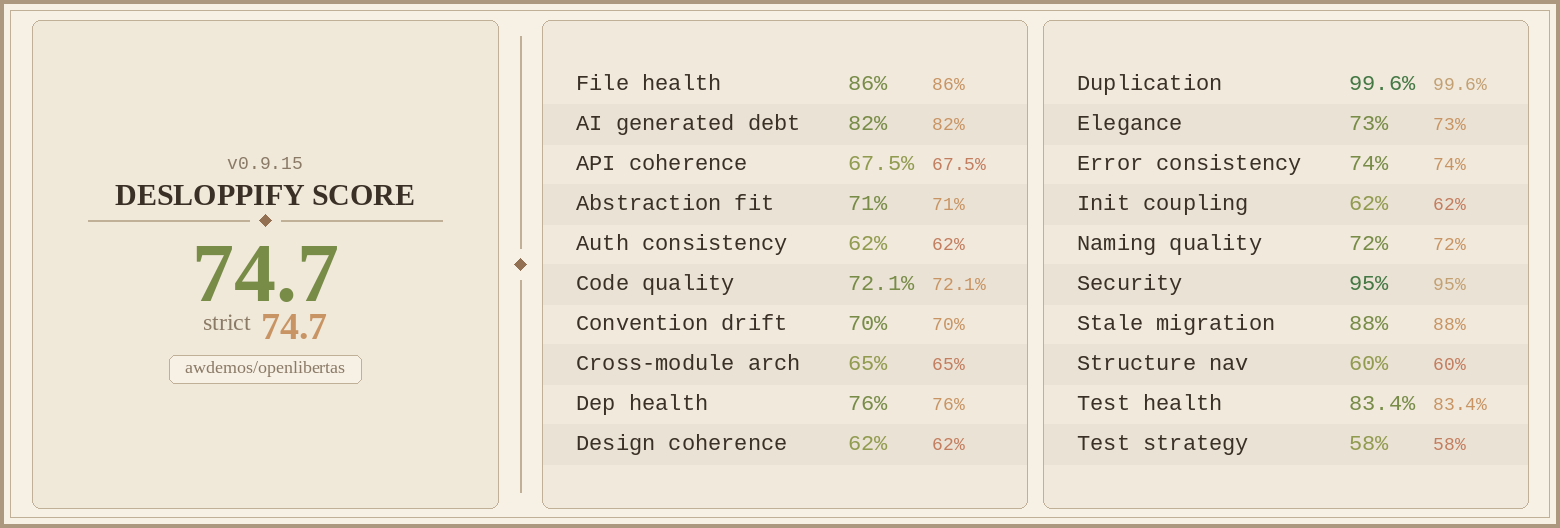
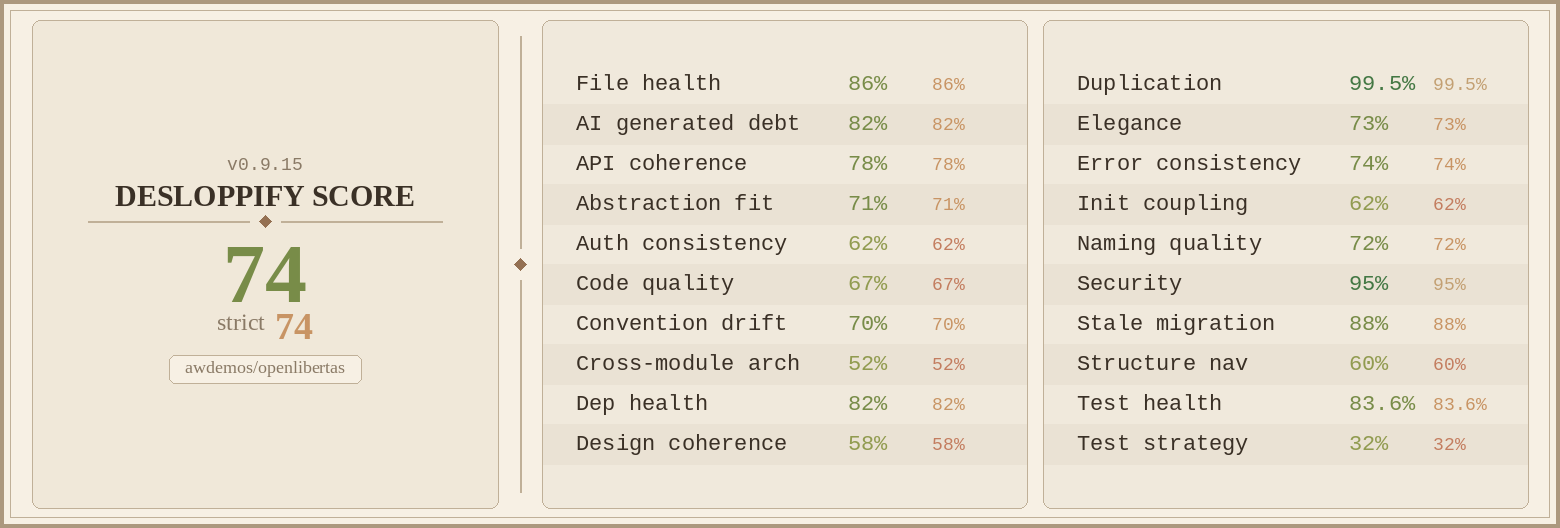
desloppify: break voice module import cycle by importing VoiceError directly from error module

diff --git a/crates/openlibertas-core/src/voice/client.rs b/crates/openlibertas-core/src/voice/client.rs
@@ -13,9 +13,9 @@ pub struct ElevenLabsClient {
 }
 
 impl ElevenLabsClient {
-    pub fn new(api_key: crate::config::SecretString, voice_id: String) -> Result<Self, crate::voice::VoiceError> {
+    pub fn new(api_key: crate::config::SecretString, voice_id: String) -> Result<Self, crate::voice::error::VoiceError> {
         if api_key.expose_secret().is_empty() {
-            return Err(crate::voice::VoiceError::MissingApiKey);
+            return Err(crate::voice::error::VoiceError::MissingApiKey);
         }
         Ok(Self {
             api_key,
@@ -26,13 +26,13 @@ impl ElevenLabsClient {
 
     /// Transcribe audio bytes to text using ElevenLabs STT.
     /// Audio should be in WAV, MP3, or other supported format.
-    pub async fn transcribe(&self, audio_bytes: Vec<u8>) -> Result<String, crate::voice::VoiceError> {
+    pub async fn transcribe(&self, audio_bytes: Vec<u8>) -> Result<String, crate::voice::error::VoiceError> {
         let url = format!("{}/speech-to-text", ELEVENLABS_API_BASE);
 
         let file_part = multipart::Part::bytes(audio_bytes)
             .file_name("audio.wav")
             .mime_str("audio/wav")
-            .map_err(|e| crate::voice::VoiceError::SerializationError(e.to_string()))?;
+            .map_err(|e| crate::voice::error::VoiceError::SerializationError(e.to_string()))?;
 
         let model_part = multipart::Part::text(DEFAULT_STT_MODEL.to_string());
 
@@ -47,7 +47,7 @@ impl ElevenLabsClient {
             .multipart(form)
             .send()
             .await
-            .map_err(|e| crate::voice::VoiceError::NetworkError(e.to_string()))?;
+            .map_err(|e| crate::voice::error::VoiceError::NetworkError(e.to_string()))?;
 
         if !response.status().is_success() {
             let status = response.status();
@@ -55,7 +55,7 @@ impl ElevenLabsClient {
                 .text()
                 .await
                 .unwrap_or_else(|_| "Unknown error".to_string());
-            return Err(crate::voice::VoiceError::SttError(format!(
+            return Err(crate::voice::error::VoiceError::SttError(format!(
                 "HTTP {}: {}",
                 status, body
             )));
@@ -64,16 +64,16 @@ impl ElevenLabsClient {
         let json: serde_json::Value = response
             .json()
             .await
-            .map_err(|e| crate::voice::VoiceError::SerializationError(e.to_string()))?;
+            .map_err(|e| crate::voice::error::VoiceError::SerializationError(e.to_string()))?;
 
         let text = json.get("text").and_then(|v| v.as_str()).ok_or_else(|| {
-            crate::voice::VoiceError::SttError("Missing 'text' in STT response".to_string())
+            crate::voice::error::VoiceError::SttError("Missing 'text' in STT response".to_string())
         })?;
 
         Ok(text.to_string())
     }
 
-    pub async fn text_to_speech(&self, text: &str) -> Result<Vec<u8>, crate::voice::VoiceError> {
+    pub async fn text_to_speech(&self, text: &str) -> Result<Vec<u8>, crate::voice::error::VoiceError> {
         let url = format!(
             "{}/text-to-speech/{}/stream?output_format=mp3_44100_128",
             ELEVENLABS_API_BASE, self.voice_id
@@ -92,7 +92,7 @@ impl ElevenLabsClient {
             .json(&body)
             .send()
             .await
-            .map_err(|e| crate::voice::VoiceError::NetworkError(e.to_string()))?;
+            .map_err(|e| crate::voice::error::VoiceError::NetworkError(e.to_string()))?;
 
         if !response.status().is_success() {
             let status = response.status();
@@ -100,7 +100,7 @@ impl ElevenLabsClient {
                 .text()
                 .await
                 .unwrap_or_else(|_| "Unknown error".to_string());
-            return Err(crate::voice::VoiceError::TtsError(format!(
+            return Err(crate::voice::error::VoiceError::TtsError(format!(
                 "HTTP {}: {}",
                 status, body
             )));
@@ -109,7 +109,7 @@ impl ElevenLabsClient {
         let bytes = response
             .bytes()
             .await
-            .map_err(|e| crate::voice::VoiceError::NetworkError(e.to_string()))?;
+            .map_err(|e| crate::voice::error::VoiceError::NetworkError(e.to_string()))?;
 
         Ok(bytes.to_vec())
     }
@@ -124,7 +124,7 @@ mod tests {
         let result = ElevenLabsClient::new(crate::config::SecretString::new("".to_string()), "voice-id".to_string());
         assert!(matches!(
             result,
-            Err(crate::voice::VoiceError::MissingApiKey)
+            Err(crate::voice::error::VoiceError::MissingApiKey)
         ));
     }
 
